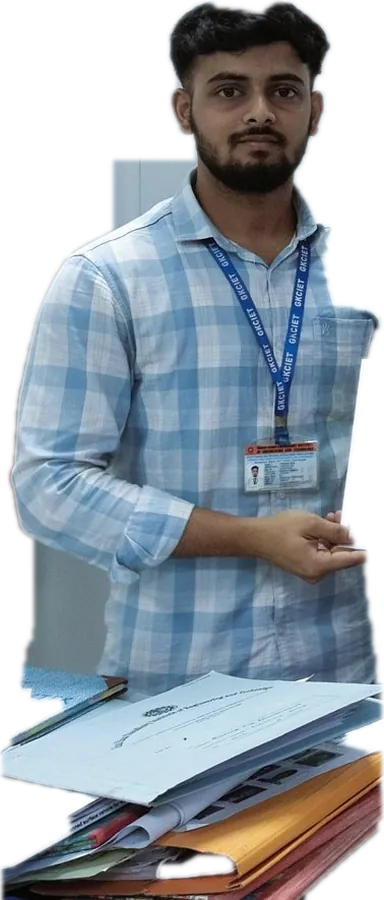
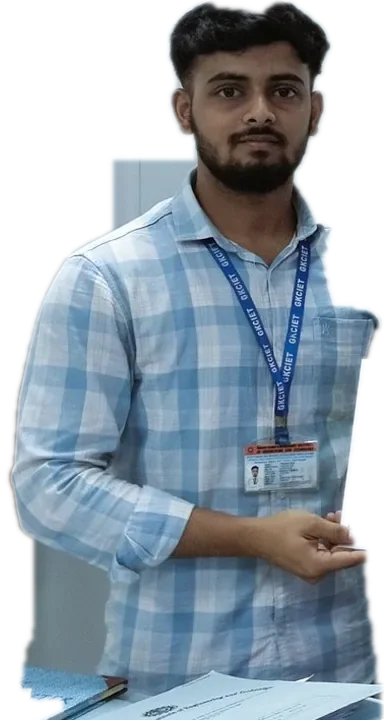
Add files via upload

diff --git a/assets/site.css b/assets/site.css
@@ -1,6 +1,6 @@
 /* Prayas Das portfolio: electric theme (navy + cyan / blue / teal, white text) */
 :root{
-  --bg:#03060d; --bg2:#060d19; --card:#08111f; --ink:#eaf6ff; --mut:#8197ae; --line:#13253d;
+  --bg:#03060d; --bg2:#060d19; --card:#08111f; --ink:#eaf6ff; --mut:#9db2c8; --line:#13253d;
   --cy:#19f0ff; --bl:#2d7bff; --tl:#00ffb3; --sp:#ffe14a;
   --disp:'Chakra Petch',system-ui,sans-serif; --sans:'Inter',system-ui,sans-serif; --mono:'JetBrains Mono',ui-monospace,monospace;
   --r:14px;
@@ -323,13 +323,9 @@ body.home .stagebox{cursor:default}
 
 /* ===== hero: faded "more of me" photos behind the portrait ===== */
 .ghosts{position:absolute;inset:0;z-index:1;pointer-events:none;overflow:hidden}
-.gh{position:absolute;bottom:0;opacity:.24;filter:saturate(.75) brightness(.92);-webkit-mask-image:linear-gradient(#000 62%,transparent 100%);mask-image:linear-gradient(#000 62%,transparent 100%);will-change:transform;animation:ghf 11s ease-in-out infinite alternate}
-.g1{left:15%;height:58svh;animation-delay:-2s}
-.g2{left:-3%;height:44svh;opacity:.22;animation-delay:-6s}
-.g3{right:17%;height:60svh;animation-delay:-4s}
-.g4{right:-3%;height:46svh;opacity:.22;animation-delay:-8s}
+.gh{position:absolute;bottom:0;opacity:.5;-webkit-mask-image:radial-gradient(ellipse 62% 72% at 50% 40%,#000 52%,transparent 100%);mask-image:radial-gradient(ellipse 62% 72% at 50% 40%,#000 52%,transparent 100%);will-change:transform;animation:ghf 11s ease-in-out infinite alternate}
 @keyframes ghf{from{transform:translateY(0)}to{transform:translateY(-12px)}}
-@media (max-width:860px){.g2,.g4{display:none}.g1{left:-6%;height:34svh}.g3{right:-4%;height:36svh}.gh{opacity:.24}}
+@media (max-width:860px){.gh2{display:none}.gh1{left:-8%;height:34svh}.gh3{right:-6%;height:34svh}.gh{opacity:.42}}
 html.lite .gh{animation:none}
 /* motivation / facts line above the head */
 .hero-fact{position:absolute;left:50%;top:88px;transform:translateX(-50%);z-index:5;display:flex;align-items:center;gap:10px;max-width:min(640px,calc(100vw - 40px));padding:9px 18px;border:1px solid rgba(25,240,255,.35);border-radius:999px;background:rgba(4,10,22,.7);backdrop-filter:blur(8px);-webkit-backdrop-filter:blur(8px);font-family:var(--mono);font-size:13px;color:#cfe6f7;transition:opacity .38s ease,transform .38s ease}
@@ -383,3 +379,15 @@ html.lite .gh{animation:none}
 .ar-new{color:var(--sp);font-family:var(--mono);margin-bottom:12px}
 .ar-card.end .ar-life{justify-content:center}.ar-card.end .ar-btn.go{margin-left:0}
 @media (max-width:640px){.ar-modes{grid-template-columns:1fr}.ar-hud{grid-template-columns:repeat(2,1fr)}.ar-btn.go{margin-left:0;flex:1 0 100%}}
+
+.gh1{left:12%;height:62svh;animation-delay:-2s}
+.gh2{right:1%;height:58svh;animation-delay:-6s}
+.gh3{right:19%;height:56svh;animation-delay:-4s}
+.dock.hide{transform:translateX(-50%);opacity:1}
+@media (hover:hover) and (min-width:861px){.dock-in{overflow:visible}}
+.play-cta{position:absolute;left:28px;bottom:34px;z-index:6;margin:0;display:grid;gap:2px;padding:12px 22px;text-align:left}
+.play-cta small{font:500 11px var(--mono);letter-spacing:.08em;opacity:.75;text-transform:uppercase}
+.play-cta span{font-size:15px}
+@media (max-width:860px){.play-cta{left:16px;bottom:92px;padding:10px 16px}.play-cta span{font-size:13.5px}}
+.card p,.card li,.row p,.proj p{color:#c3d2e2}
+@media (max-width:860px){.gh1{left:-8%;height:34svh}.gh3{right:-6%;height:34svh}}

diff --git a/index.html b/index.html
@@ -63,7 +63,7 @@
 <section class="hero2" id="hero">
   <div class="bg-word" aria-hidden="true">Prayas</div>
   <div class="aura" aria-hidden="true"></div>
-  <div class="ghosts" aria-hidden="true"><img class="gh g1" src="assets/ghost-speech.webp" alt="" width="345" height="726" loading="lazy" decoding="async"><img class="gh g2" src="assets/ghost-scout.webp" alt="" width="762" height="900" loading="lazy" decoding="async"><img class="gh g3" src="assets/ghost-award.webp" alt="" width="384" height="900" loading="lazy" decoding="async"><img class="gh g4" src="assets/ghost-service.webp" alt="" width="863" height="900" loading="lazy" decoding="async"></div>
+  <div class="ghosts" aria-hidden="true"><img class="gh gh1" src="assets/ghost-speech.webp" alt="" width="345" height="726" loading="lazy" decoding="async"><img class="gh gh2" src="assets/ghost-formal.webp" alt="" width="238" height="832" loading="lazy" decoding="async"><img class="gh gh3" src="assets/ghost-award.webp" alt="" width="384" height="720" loading="lazy" decoding="async"></div>
   <div class="stagebox">
     <div class="stage" id="stage">
       <i class="ring r1" aria-hidden="true"><b></b><b></b><b></b></i><i class="ring r2" aria-hidden="true"><b></b></i>
@@ -85,9 +85,9 @@
   <div class="hero-note">
     <p class="status" data-arc="ambient"><b></b> Open for opportunities</p>
     <h1>Electrical engineer building <em>intelligent</em> systems.</h1>
-    <a class="play-cta" href="game.html">&#9889; Play Spark Arena</a>
   </div>
   <p class="hero-fact" id="heroFact" aria-live="off"><svg viewBox="0 0 24 24" aria-hidden="true"><path d="M13 2L4 14h7l-1 8 9-12h-7z"/></svg><span id="factText">Every great grid started as one spark of curiosity.</span></p>
+  <a class="play-cta" href="game.html"><span>&#9889; Play it &amp; increase knowledge</span><small>Spark Arena quiz game</small></a>
   <div class="cur" id="cur" aria-hidden="true"><i></i></div>
 </section>
 

diff --git a/research.html b/research.html
@@ -70,9 +70,9 @@
     <div class="tags"><span>MATLAB Regression Learner</span><span>Hybrid ML</span><span>Torque Sensing</span><span>Cadence Sensing</span><span>Multi-objective Optimization</span></div>
   </article>
   <article class="paper reveal" data-arc>
-    <span class="chip ok">Published &middot; First author</span>
+    <span class="chip ok">Published &middot; Book chapter &middot; First author</span>
     <h2>&ldquo;Machine-Learning-Enhanced Human-in-the-Loop Adaptive Motor Control for Personalized Pedal-Effort in E-Bicycles&rdquo;</h2>
-    <dl><dt>Conference</dt><dd>PEIS 2026, International Conference on Power, Electronics &amp; Intelligent Systems</dd><dt>Date</dt><dd>3&ndash;4 April 2026</dd><dt>Published in</dt><dd>Book chapter &amp; proceedings</dd><dt>Role</dt><dd>First author, presenter &amp; Organizing Committee Member</dd></dl>
+    <dl><dt>Conference</dt><dd>PEIS 2026, International Conference on Power, Environment and Intelligent Systems</dd><dt>Date</dt><dd>3&ndash;4 April 2026 &middot; GKCIET, Malda</dd><dt>Published in</dt><dd>Book chapter, <i>Power, Environment and Intelligent Systems, Volume I: Proceedings of the International Conference on Power, Environment and Intelligent Systems, PEIS 2026</i> (April 03&ndash;04, 2026)</dd><dt>ISBN</dt><dd>979-8-90330-226-0</dd><dt>Paper ID</dt><dd>072</dd><dt>Role</dt><dd>First author, presenter &amp; Organizing Committee Member</dd></dl>
     <p><b>Abstract.</b> An ML-enhanced adaptive motor control system that personalizes pedal-effort assistance in e-bicycles using human-in-the-loop feedback, physiological signals and real-time sensor data, improving rider experience and energy efficiency.</p>
     <div class="tags"><span>Machine Learning</span><span>E-Bicycle</span><span>Motor Control</span><span>IoT</span><span>Adaptive Control</span></div>
   </article>
